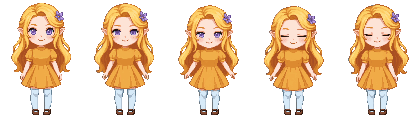
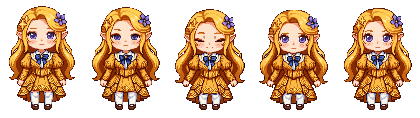
Вики: спрайт-лист Эллии из актуальной игры, покой чуть живее
- r_ellia.png пересобран из www/img/heroines/r_ellia.png (первые 5 кадров покоя,
  уменьшены вдвое до 420x118) - на вики висела старая версия в оранжевом платье,
  без банта и меча
- сверены все 49 листов, остальные совпадают с игрой
- idle-анимация карточек и маскота ускорена: 1.1s -> 0.85s на цикл

diff --git a/wiki/index.html b/wiki/index.html
@@ -187,10 +187,10 @@ footer{max-width:1240px;margin:0 auto;padding:24px;text-align:center;color:var(-
 /* ═══ обновление 2026-07-20: живые спрайты, эмблемы, бестиарий, формы ═══ */
 .hidle{display:block;width:84px;height:118px;flex:0 0 auto;image-rendering:pixelated;background-size:500% 100%;background-repeat:no-repeat;align-self:flex-start;
   filter:drop-shadow(0 0 8px color-mix(in srgb,var(--rc,#a06bff) 60%,transparent));
-  animation:hidle 1.1s steps(5,jump-none) infinite;transition:filter .2s ease}
+  animation:hidle 0.85s steps(5,jump-none) infinite;transition:filter .2s ease}
 @keyframes hidle{from{background-position-x:0%}to{background-position-x:100%}}
 .hero-card:hover .hidle{filter:drop-shadow(0 0 15px color-mix(in srgb,var(--rc) 90%,transparent))}
-.deco-chibi.hidle{width:84px;height:118px;margin:0 auto;animation:hidle 1.1s steps(5,jump-none) infinite,decoFloat 3.6s ease-in-out infinite}
+.deco-chibi.hidle{width:84px;height:118px;margin:0 auto;animation:hidle 0.85s steps(5,jump-none) infinite,decoFloat 3.6s ease-in-out infinite}
 h2{display:flex;align-items:center;gap:13px;flex-wrap:wrap}
 .h2em{width:46px;height:46px;image-rendering:pixelated;flex:0 0 auto;filter:drop-shadow(0 0 10px #a06bff55)}
 .h3em{width:24px;height:24px;image-rendering:pixelated;vertical-align:-6px;margin-right:5px}
